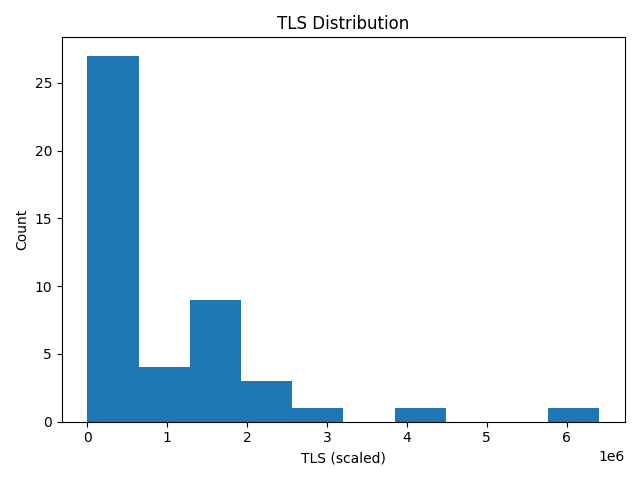
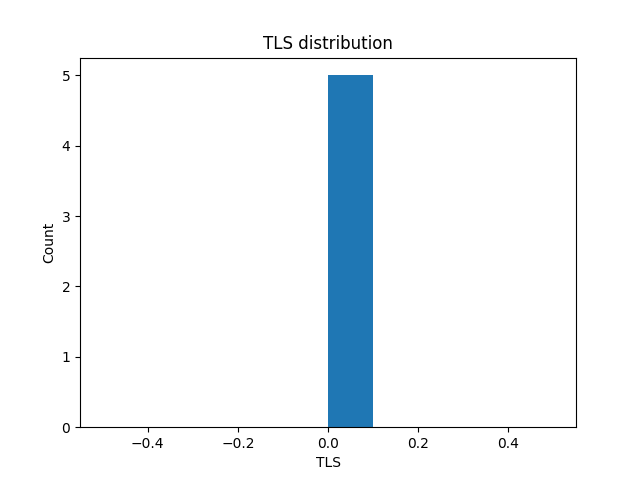
Add log-log model, n=236 dataset, 22 passing tests, updated pipeline

diff --git a/scripts/run_pipeline.py b/scripts/run_pipeline.py
@@ -1,6 +1,8 @@
 import sys
 import os
 sys.path.insert(0, os.path.dirname(os.path.dirname(os.path.abspath(__file__))))
+import os
+sys.path.insert(0, os.path.dirname(os.path.dirname(os.path.abspath(__file__))))
 
 from src.tls_calculator.loading import (
     load_csv,
